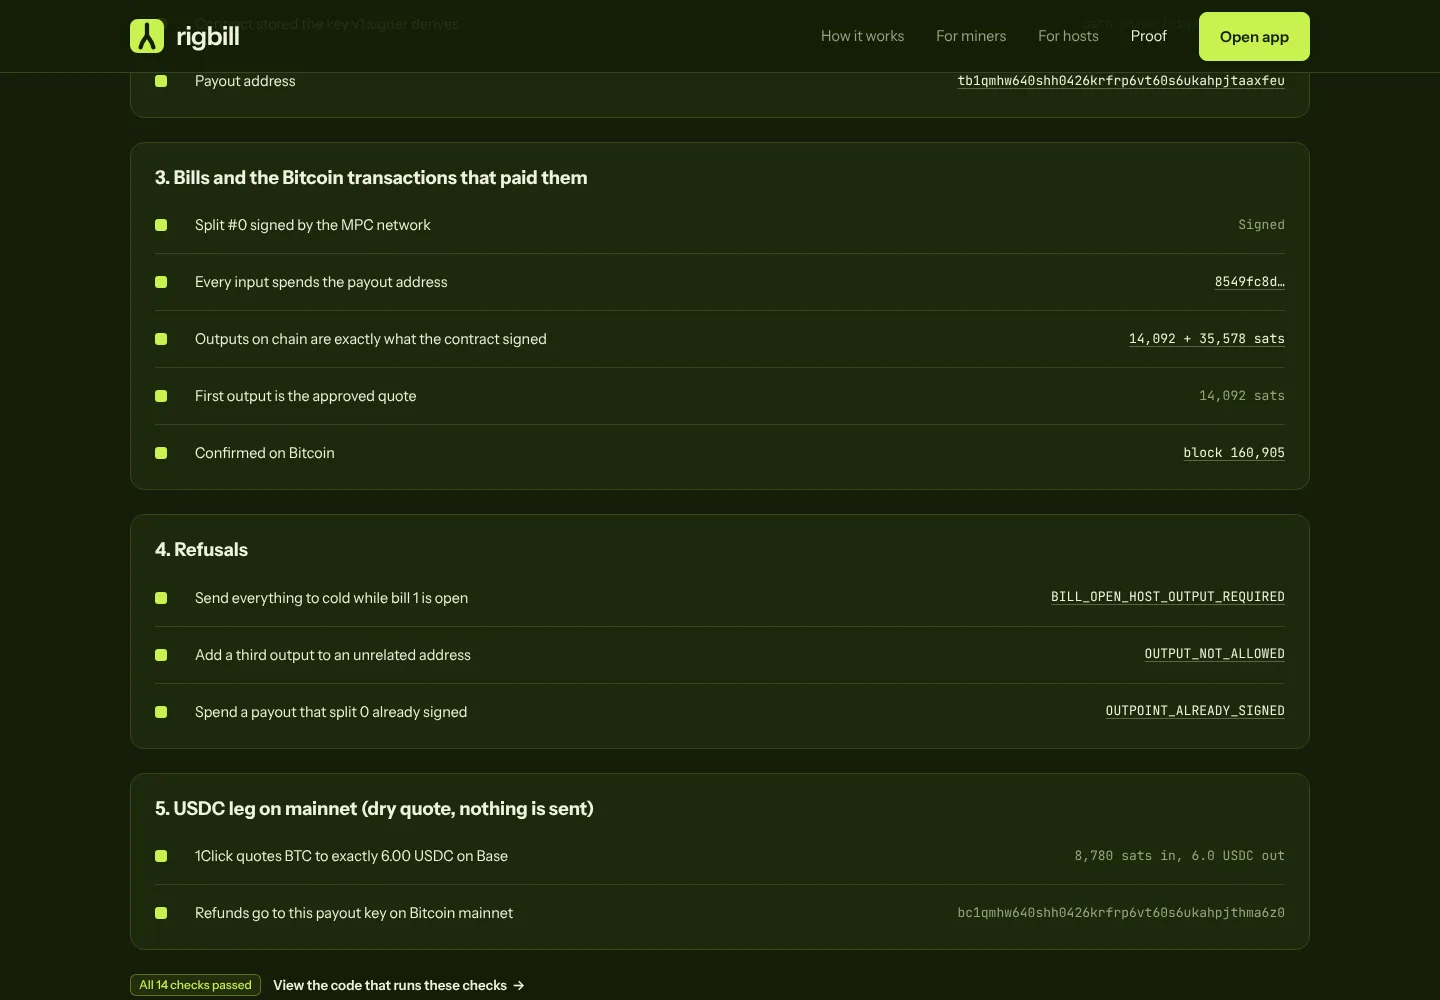
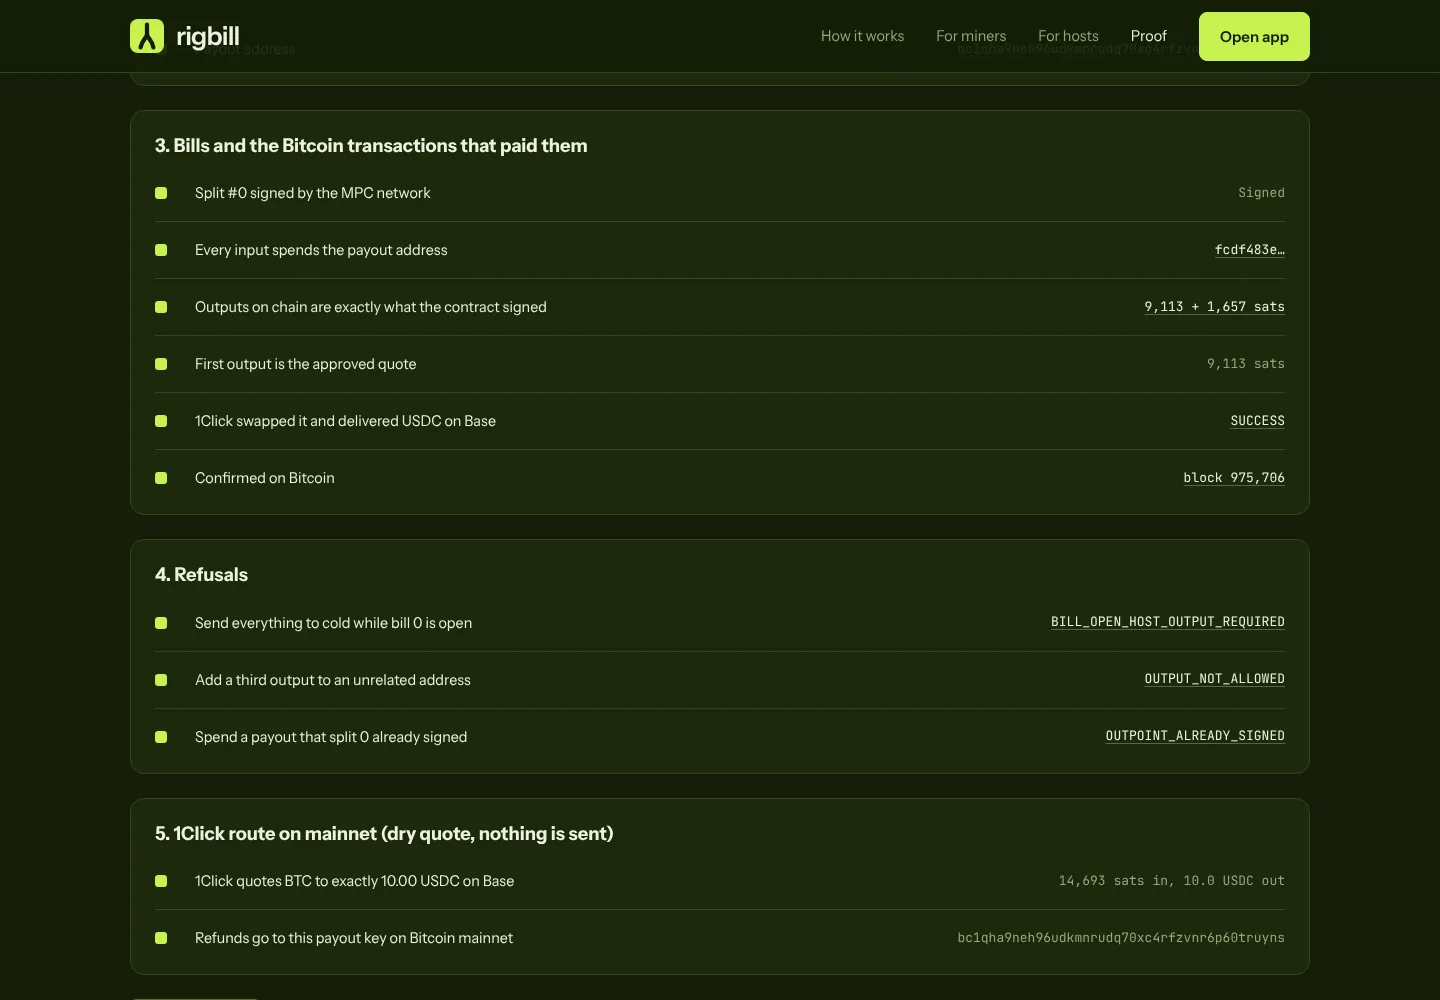
Record the mainnet run and make mainnet the default proof
Bill #0 on v1.rigbill.near was paid by an MPC-signed Bitcoin split and a
1Click swap that delivered 6.20 USDC on Base. All three refusals are
recorded on mainnet. verify and /proof now check the 1Click swap status
for paid bills, the dry quote uses $10 to stay above 1Click's minimum,
and CI verifies both networks.

diff --git a/web/src/proof.ts b/web/src/proof.ts
@@ -1,8 +1,9 @@
 import proofTestnet from "../../proof/testnet.json";
+import proofMainnet from "../../proof/mainnet.json";
 import { payoutFromDerivedKey } from "./btc";
 import { CONTRACT_ID, ESPLORA, MEMPOOL_WEB, NEARBLOCKS_WEB, NEAR_RPC, SIGNER_ID, network } from "./config";
 import { getMiner, view, type Bill, type Split } from "./near";
-import { mainnetQuoteCheck } from "./oneclick";
+import { mainnetQuoteCheck, swapStatus } from "./oneclick";
 
 /**
  * The browser twin of `npm run verify`. Every check reads NEAR RPC and a public
@@ -15,7 +16,7 @@ interface ProofFile {
   refusals: { tx: string; sender: string; attempt: string; expect: string }[];
 }
 
-const PROOFS: Record<string, ProofFile | undefined> = { testnet: proofTestnet };
+const PROOFS: Record<string, ProofFile | undefined> = { testnet: proofTestnet, mainnet: proofMainnet };
 export const proofFile: ProofFile | null = PROOFS[network]?.contract === CONTRACT_ID ? PROOFS[network]! : null;
 
 export interface Check {
@@ -97,6 +98,11 @@ export async function runChecks(onProgress?: (done: Check[]) => void): Promise<C
       const first = split.outputs[0];
       push({ group: "Bills", label: "First output is the approved quote", detail: `${Number(b.quote.amount_in_sats).toLocaleString("en-US")} sats`, ok: first?.address === b.quote.deposit_address && first?.value === b.quote.amount_in_sats });
     }
+    if (network === "mainnet" && b.quote && b.status === "Paid") {
+      const st = await swapStatus(b.quote.deposit_address).catch(() => null);
+      const out = st?.swapDetails?.destinationChainTxHashes?.[0]?.hash;
+      push({ group: "Bills", label: "1Click swapped it and delivered USDC on Base", detail: st?.status ?? "unreachable", ok: st?.status === "SUCCESS", href: out ? `https://basescan.org/tx/${out}` : undefined });
+    }
     push({ group: "Bills", label: "Confirmed on Bitcoin", detail: tx?.status?.confirmed ? `block ${tx.status.block_height.toLocaleString("en-US")}` : "in mempool", ok: !!tx?.status?.confirmed, href });
   }
 
@@ -108,9 +114,9 @@ export async function runChecks(onProgress?: (done: Check[]) => void): Promise<C
     push({ group: "Refusals", label: r.attempt, detail: r.expect, ok: failure.includes(r.expect) && !reachedSigner, href: `${NEARBLOCKS_WEB}/txns/${r.tx}` });
   }
   const q = await mainnetQuoteCheck(payout.pubkey).catch((e) => ({ error: e instanceof Error ? e.message : String(e) }));
-  if ("error" in q) push({ group: "1Click", label: "Live 1Click quote for a $6 bill", detail: q.error, ok: false });
+  if ("error" in q) push({ group: "1Click", label: "Live 1Click quote for a $10 bill", detail: q.error, ok: false });
   else {
-    push({ group: "1Click", label: "1Click quotes BTC to exactly 6.00 USDC on Base", detail: `${Number(q.amountIn).toLocaleString("en-US")} sats in, ${q.amountOutFormatted} USDC out`, ok: q.amountOut === "6000000" });
+    push({ group: "1Click", label: "1Click quotes BTC to exactly 10.00 USDC on Base", detail: `${Number(q.amountIn).toLocaleString("en-US")} sats in, ${q.amountOutFormatted} USDC out`, ok: q.amountOut === "10000000" });
     push({ group: "1Click", label: "Refunds go to this payout key on Bitcoin mainnet", detail: q.refundTo, ok: true });
   }
   return out;

diff --git a/relayer/src/verify.ts b/relayer/src/verify.ts
@@ -120,6 +120,11 @@ async function main() {
       );
       check(sp.outputs[1]?.address === m.cold_address && sp.outputs.length === 2, "the rest went to the miner's cold address");
     }
+    if (network === "mainnet" && b.quote && b.status === "Paid") {
+      const st: any = await fetch(`https://1click.chaindefuser.com/v0/status?depositAddress=${b.quote.deposit_address}`).then((r) => r.json()).catch(() => ({}));
+      const out = st.swapDetails?.destinationChainTxHashes?.[0]?.hash ?? "";
+      check(st.status === "SUCCESS", "1Click swapped it and delivered USDC on Base", `${st.swapDetails?.amountOutFormatted ?? "?"} USDC  ${out ? `https://basescan.org/tx/${out}` : st.status}`);
+    }
     check(tx.status.confirmed, "confirmed on Bitcoin", tx.status.confirmed ? `block ${tx.status.block_height}` : "in mempool");
   }
 
@@ -133,7 +138,7 @@ async function main() {
     check(text.includes(r.expect) && !reachedSigner, `${r.attempt}: refused with ${r.expect}, no signature requested`, `${NEARBLOCKS_WEB}/txns/${r.tx}`);
   }
 
-  console.log("\n5. USDC leg on mainnet (dry 1Click quote, nothing is sent)");
+  console.log("\n5. 1Click route on mainnet (dry quote, nothing is sent)");
   try {
     const refundTo = B.payoutAddress(key, NETWORK_MAINNET);
     const res = await fetch("https://1click.chaindefuser.com/v0/quote", {
@@ -143,13 +148,13 @@ async function main() {
         dry: true, swapType: "EXACT_OUTPUT", slippageTolerance: 100,
         originAsset: "nep141:btc.omft.near", depositType: "ORIGIN_CHAIN",
         destinationAsset: "nep141:base-0x833589fcd6edb6e08f4c7c32d4f71b54bda02913.omft.near",
-        amount: "6000000", refundTo, refundType: "ORIGIN_CHAIN",
+        amount: "10000000", refundTo, refundType: "ORIGIN_CHAIN",
         recipient: "0x1111111111111111111111111111111111111111", recipientType: "DESTINATION_CHAIN",
         deadline: new Date(Date.now() + 864e5).toISOString(),
       }),
     });
     const body: any = await res.json();
-    check(res.ok && body.quote?.amountOut === "6000000", "1Click quotes BTC to exactly 6.00 USDC on Base", res.ok ? `${body.quote.amountIn} sats in` : body?.message ?? String(res.status));
+    check(res.ok && body.quote?.amountOut === "10000000", "1Click quotes BTC to exactly 10.00 USDC on Base", res.ok ? `${body.quote.amountIn} sats in` : body?.message ?? String(res.status));
     ok("refunds go to this payout key on Bitcoin mainnet", refundTo);
   } catch (e) {
     bad("1Click reachable", e instanceof Error ? e.message : String(e));

diff --git a/web/src/oneclick.ts b/web/src/oneclick.ts
@@ -80,11 +80,11 @@ export async function swapStatus(depositAddress: string): Promise<SwapStatusResp
 }
 
 /**
- * A dry mainnet quote for a $6 bill, refunding to the same MPC key's mainnet
+ * A dry mainnet quote for a $10 bill, refunding to the same MPC key's mainnet
  * address. Dry quotes move nothing, so the recipient is a fixed test address.
  */
 export async function mainnetQuoteCheck(payoutPubkeyHex: string): Promise<{ amountIn: string; amountOut: string; amountOutFormatted: string; refundTo: string }> {
   const refundTo = btc.p2wpkh(hex.decode(payoutPubkeyHex), btc.NETWORK).address!;
-  const q = await quoteBillInBtc({ dry: true, usdCents: 600, recipient: "0x1111111111111111111111111111111111111111", refundTo, deadline: new Date(Date.now() + 864e5) });
+  const q = await quoteBillInBtc({ dry: true, usdCents: 1000, recipient: "0x1111111111111111111111111111111111111111", refundTo, deadline: new Date(Date.now() + 864e5) });
   return { amountIn: q.amountIn, amountOut: q.amountOut, amountOutFormatted: (q as Quote & { amountOutFormatted?: string }).amountOutFormatted ?? String(Number(q.amountOut) / 1e6), refundTo };
 }

diff --git a/web/src/ProofPage.tsx b/web/src/ProofPage.tsx
@@ -8,7 +8,7 @@ const GROUPS: { key: Check["group"]; title: string }[] = [
   { key: "Payout address", title: "2. Payout address" },
   { key: "Bills", title: "3. Bills and the Bitcoin transactions that paid them" },
   { key: "Refusals", title: "4. Refusals" },
-  { key: "1Click", title: "5. USDC leg on mainnet (dry quote, nothing is sent)" },
+  { key: "1Click", title: "5. 1Click route on mainnet (dry quote, nothing is sent)" },
 ];
 
 /** S8: every check from `npm run verify`, run live in the browser. */

diff --git a/web/src/config.ts b/web/src/config.ts
@@ -1,7 +1,7 @@
 import { NETWORK, TEST_NETWORK } from "@scure/btc-signer";
 
 const env = import.meta.env;
-export const network: "mainnet" | "testnet" = env.VITE_NETWORK === "mainnet" ? "mainnet" : "testnet";
+export const network: "mainnet" | "testnet" = env.VITE_NETWORK === "testnet" ? "testnet" : "mainnet";
 const testnet = network === "testnet";
 
 export const btcNetwork = testnet ? TEST_NETWORK : NETWORK;

diff --git a/README.md b/README.md
@@ -6,7 +6,7 @@ A Bitcoin payout address that can't skip the hosting bill. While a bill is open,
 
 Mining hosts run other people's rigs and bill them every month in dollars. The miners earn BTC, so every month someone sells coins by hand, a pool converts them custodially, or the host chases a late payment. Any miner can also move a payout before the bill clears. Rigbill gives each miner a payout address whose only key is a NEAR smart contract, through Chain Signatures. The contract reads every Bitcoin transaction before it signs and refuses any that doesn't pay the open bill through NEAR Intents 1Click.
 
-Here it is refusing: the miner tried to [send everything to cold while a bill was open](https://testnet.nearblocks.io/txns/B78JMiGRV33ntgvKzKoP5RpV45Ufn3u8JbKF4KndcN8J) and the contract failed with `BILL_OPEN_HOST_OUTPUT_REQUIRED` before asking the MPC network for a signature. The next payout [paid the bill and sent the rest to cold](https://mempool.space/testnet4/tx/8549fc8d90d10f02aee8cf3b528259f26962f793837c6bb40ab74ca804b3f27e).
+It runs on mainnet with real money. The miner tried to [send everything to cold while a bill was open](https://nearblocks.io/txns/2cTep6qoRqYoLKb6uoSaPFfi1jsRzUvUfuvyrsomn9Ch) and the contract failed with `BILL_OPEN_HOST_OUTPUT_REQUIRED` before asking the MPC network for a signature. The payout then [paid the bill and sent the rest to cold](https://mempool.space/tx/fcdf483e77ceb067b3c120f42c0b2a91a20194d61ed63329ca3c28837b25a397), and 1Click [delivered the USDC on Base](https://basescan.org/tx/0x2c3e7251d5178d0b83006457e06694e1ecf80176e072dcbb80cd931f1950b1c6).
 
 ![Rigbill landing page with a live paid bill read from the contract](docs/screens/landing.webp)
 
@@ -36,34 +36,37 @@ Take NEAR out and there's no product left.
 
 ## Proof
 
-The full loop runs on NEAR testnet and Bitcoin testnet4. Check it yourself with no keys and no setup beyond Node 20+:
+The full loop runs on NEAR mainnet, Bitcoin mainnet and Base. Check it yourself with no keys and no setup beyond Node 20+:
 
 ```bash
 npm run verify
 ```
 
-It reads the contract and both chains live, then checks that the payout address comes from the MPC key, that each Bitcoin transaction matches what the contract signed output for output, that each refusal failed on chain without ever reaching the signer, and that 1Click returns a live mainnet quote for the USDC leg (a dry quote, nothing is sent).
+It reads the contract and all three chains live, then checks that the payout address comes from the MPC key, that each Bitcoin transaction matches what the contract signed output for output, that 1Click delivered the USDC, and that each refusal failed on chain without ever reaching the signer.
 
 | What | Link |
 |---|---|
-| Contract | [v1.rigbill.testnet](https://testnet.nearblocks.io/address/v1.rigbill.testnet) |
-| Payout address | [tb1qmhw640shh0426krfrp6vt60s6ukahpjtaaxfeu](https://mempool.space/testnet4/address/tb1qmhw640shh0426krfrp6vt60s6ukahpjtaaxfeu) |
-| NEAR tx that requested the MPC signature | [3vhWBY74…](https://testnet.nearblocks.io/txns/3vhWBY74mJ8hUjuXQEmRN6sQh8jQ1WmvVvs5dzrjzrpP) |
-| Bitcoin split that paid bill #0 | [8549fc8d…](https://mempool.space/testnet4/tx/8549fc8d90d10f02aee8cf3b528259f26962f793837c6bb40ab74ca804b3f27e): 14,092 sats to the deposit address, 35,578 to cold |
-| Host confirms paid | [GTd6xhQ6…](https://testnet.nearblocks.io/txns/GTd6xhQ6kBXMTp8xcmtM3L7W5PvbwcqNkMfEnst7Ew5W) |
-| Refused: cold-only sweep while a bill is open | [B78JMiGR…](https://testnet.nearblocks.io/txns/B78JMiGRV33ntgvKzKoP5RpV45Ufn3u8JbKF4KndcN8J) `BILL_OPEN_HOST_OUTPUT_REQUIRED` |
-| Refused: a third output | [3m3KTFmS…](https://testnet.nearblocks.io/txns/3m3KTFmSdhyLvfdDWsk68nUaAUPxwbpt6G6HLLKoXUy5) `OUTPUT_NOT_ALLOWED` |
-| Refused: spending a payout that was already signed | [6qv2g2Uk…](https://testnet.nearblocks.io/txns/6qv2g2Uk1P6AmE3SdptprKu8kJ8T5UMDxGyGA9GiGUmQ) `OUTPOINT_ALREADY_SIGNED` |
+| Contract | [v1.rigbill.near](https://nearblocks.io/address/v1.rigbill.near) |
+| Payout address | [bc1qha9neh96udkmnrudq70xc4rfzvnr6p60truyns](https://mempool.space/address/bc1qha9neh96udkmnrudq70xc4rfzvnr6p60truyns) |
+| NEAR tx that requested the MPC signature | [5iouTCA3…](https://nearblocks.io/txns/5iouTCA3KtZL5Wkoe45wyd3bPEuZPKPLBFa7JynoreBU) |
+| Bitcoin split that paid bill #0 | [fcdf483e…](https://mempool.space/tx/fcdf483e77ceb067b3c120f42c0b2a91a20194d61ed63329ca3c28837b25a397): 9,113 sats to the 1Click deposit, 1,657 to cold |
+| USDC delivered on Base | [0x2c3e7251…](https://basescan.org/tx/0x2c3e7251d5178d0b83006457e06694e1ecf80176e072dcbb80cd931f1950b1c6): 6.20 USDC |
+| Host confirms paid | [FnW37Rd4…](https://nearblocks.io/txns/FnW37Rd4xu7rY4GG4ovtNmHt484Frep5hZ7dgZ6B6NqG) |
+| Refused: cold-only sweep while a bill is open | [2cTep6qo…](https://nearblocks.io/txns/2cTep6qoRqYoLKb6uoSaPFfi1jsRzUvUfuvyrsomn9Ch) `BILL_OPEN_HOST_OUTPUT_REQUIRED` |
+| Refused: a third output | [2GJwdkLg…](https://nearblocks.io/txns/2GJwdkLgVbccvwaWEUvArBy4H8jYu2wyxMyqmVoymRFt) `OUTPUT_NOT_ALLOWED` |
+| Refused: spending a payout that was already signed | [8gLWfPQx…](https://nearblocks.io/txns/8gLWfPQxHjQxTe4An9AN48mWgRMFv8Ubh8MsQwKY6QGK) `OUTPOINT_ALREADY_SIGNED` |
+
+The bill was $6. 1Click's minimum had risen just above that, so the host locked a quote for 6.20 USDC, still inside the miner's sats ceiling.
 
 Nearblocks can block automated clients. Any NEAR transaction above can also be read straight from the public RPC:
 
 ```bash
-curl -s https://rpc.testnet.near.org -H 'content-type: application/json' -d '{"jsonrpc":"2.0","id":1,"method":"tx","params":{"tx_hash":"B78JMiGRV33ntgvKzKoP5RpV45Ufn3u8JbKF4KndcN8J","sender_account_id":"rigbill.testnet","wait_until":"FINAL"}}'
[1 lines of base64/hex data omitted]
 ```
 
-The same loop also ran through the web app with fresh accounts (`e2e/`): the miner's sweep to cold was [refused in the UI](https://testnet.nearblocks.io/txns/9MUxwPwg3o3ScCiv79R7ebHhJ5nvz8urHAcMrgARy72Z), then the payout [paid the $6 bill](https://mempool.space/testnet4/tx/b0a874bc798c64d7f513605aaab5e58e021eb4b935f7dce90f161fe17b4ccdd9) and the host confirmed it.
+The same build ran the loop first on NEAR testnet and Bitcoin testnet4 (`NETWORK=testnet npm run verify`), with a stand-in for the 1Click deposit since Intents has no testnet: [split](https://mempool.space/testnet4/tx/8549fc8d90d10f02aee8cf3b528259f26962f793837c6bb40ab74ca804b3f27e) and refusals [1](https://testnet.nearblocks.io/txns/B78JMiGRV33ntgvKzKoP5RpV45Ufn3u8JbKF4KndcN8J), [2](https://testnet.nearblocks.io/txns/3m3KTFmSdhyLvfdDWsk68nUaAUPxwbpt6G6HLLKoXUy5), [3](https://testnet.nearblocks.io/txns/6qv2g2Uk1P6AmE3SdptprKu8kJ8T5UMDxGyGA9GiGUmQ). On testnet the loop also ran through the web app with fresh accounts (`e2e/`): the miner's sweep to cold was [refused in the UI](https://testnet.nearblocks.io/txns/9MUxwPwg3o3ScCiv79R7ebHhJ5nvz8urHAcMrgARy72Z), then the payout [paid the $6 bill](https://mempool.space/testnet4/tx/b0a874bc798c64d7f513605aaab5e58e021eb4b935f7dce90f161fe17b4ccdd9) and the host confirmed it.
 
-NEAR Intents has no testnet, so on testnet the host's output goes to a stand-in deposit address and there is no USDC leg. The demo payout comes from the miner's own testnet wallet, standing in for a pool.
+The demo payouts come from the builder's own wallet, standing in for a pool.
 
 ## Screens
 
@@ -82,15 +85,15 @@ Every screen reads live state from the contract, Bitcoin and NEAR. Nothing is sa
 | `/host/bills/:id` | Host | Lock a live 1Click quote, confirm paid or report a refund |
 | `/proof` | Anyone | The `npm run verify` checks, run in the browser |
 
-Sign in with any NEAR wallet that supports testnet through NEAR Connect, such as Meteor, Intear or Nightly.
+Sign in with any NEAR wallet through NEAR Connect, such as Meteor, Intear or Nightly.
 
 ## Status
 
-Everything here was written from 2026-11-12. The full loop runs on NEAR testnet and Bitcoin testnet4: MPC signing, the bill lifecycle and every refusal, checked by `npm run verify` and CI on each commit. NEAR Intents has no testnet, so the swap itself is the one part that hasn't run end to end. The code for it follows 1Click's API, and each verify run fetches a live mainnet quote for a $6 bill to show the route is there.
+Everything here was written from 2026-11-12. The whole loop has run on mainnet: MPC signing, the bill lifecycle, a real BTC to USDC swap through 1Click and every refusal. `npm run verify` and CI check both mainnet and testnet on each commit, along with a live 1Click quote to show the route is still open.
 
 ## Run it
 
-Web app (testnet by default, `VITE_NETWORK=mainnet` for mainnet):
+Web app (mainnet by default, `VITE_NETWORK=testnet` for testnet):
 
 ```bash
 cd web && npm install && npm run dev
@@ -155,7 +158,7 @@ Runs 64 contract tests (split rules, every refusal, BIP143 sighash vectors, bill
 - A miner can still point their pool at a different address off-chain. Hosts usually control the rigs and can watch each rig's payout address.
 - An unpaid bill expires 7 days after its due date, which releases the miner.
 - The contract account keeps a full-access key, so its code can be upgraded. No method moves funds outside the split rules.
-- 1Click won't swap less than about 8,300 sats, so very small bills can't be paid this way.
+- 1Click has a minimum swap, a little over $6 of USDC when this ran, so very small bills can't be paid this way.
 
 ## License
 

diff --git a/e2e/README.md b/e2e/README.md
@@ -6,7 +6,7 @@ Drives the real web app in Chromium against the live testnet contract. The only 
 `flow2.cjs`: after the payout address holds a confirmed payout, the miner's sweep to cold is refused on chain, the relayer pays the bill, the host confirms paid.
 
 ```bash
-cd web && npm run build && npx vite preview --port 4173
+cd web && VITE_NETWORK=testnet npm run build && npx vite preview --port 4173
 ```
 
 ```bash
